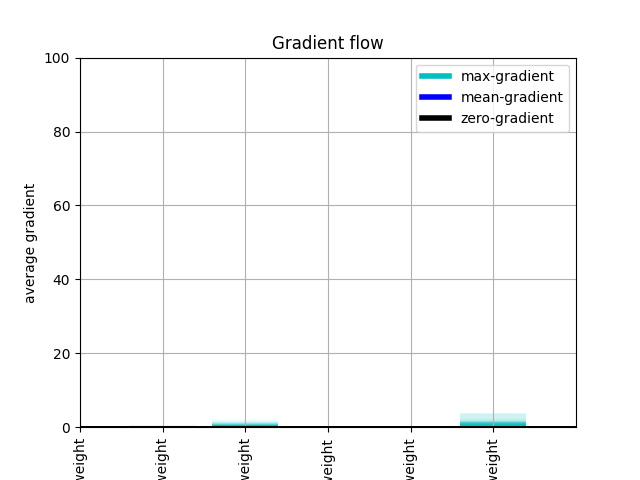
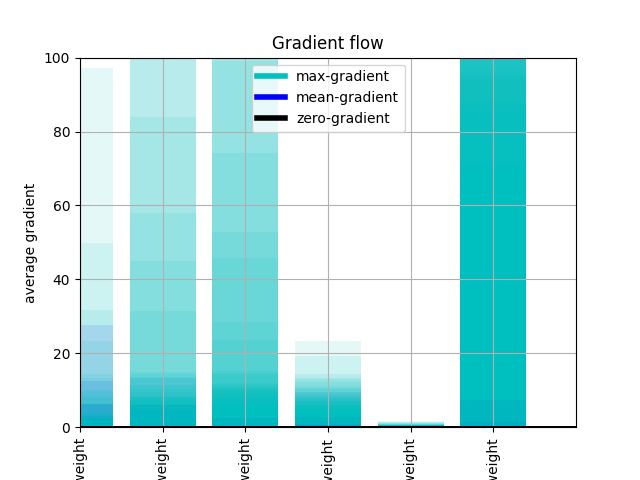
update

Changed region(s): [[0.125, 0.125, 0.875, 0.9062], [0.5938, 0.875, 0.6875, 0.9062]]

diff --git a/src/models/ConvAutoEncoder.py b/src/models/ConvAutoEncoder.py
@@ -8,28 +8,34 @@ class ConvAutoEncoder(nn.Module):
 
         # Encoder layers
         self.enc1 = nn.Conv2d(3, 16, 3, padding=1)
-        self.enc2 = nn.Conv2d(16, 3, 3, padding=1)
+        self.enc2 = nn.Conv2d(16, 32, 3, padding=1)
+        self.enc3 = nn.Conv2d(32, 3, 3, padding=1)
         # self.enc3 = nn.Conv2d(32, 3, 3, padding=1)
 
         # Decoder layers
-        self.dec1 = nn.ConvTranspose2d(3, 16, kernel_size=2, stride=2)
-        # self.dec2 = nn.ConvTranspose2d(32, 16, kernel_size=2, stride=2)
-        self.dec3 = nn.ConvTranspose2d(16, 3, kernel_size=2, stride=2)
+        self.dec1 = nn.ConvTranspose2d(3, 32, kernel_size=2, stride=2)
+        self.dec2 = nn.ConvTranspose2d(32, 16, kernel_size=2, stride=2)
+        self.dec3 = nn.ConvTranspose2d(16, 3, kernel_size=1, stride=1)
 
         self.pool = nn.MaxPool2d(2, 2)
+        self.batch_norm = nn.BatchNorm2d(32)
 
     def forward(self, x):
 
         # Encoding
         x = F.relu(self.enc1(x))
-        x = self.pool(x)
         x = F.relu(self.enc2(x))
+        x = self.pool(x)
+        x = self.batch_norm(x)
+        x = F.relu(self.enc3(x))
         # x = self.pool(x)
         # x = F.relu(self.enc3(x)) # problem lies here. How can i return the encoding with channels = 3
         encoding = self.pool(x)
 
         # Decoding
         x = F.relu(self.dec1(encoding))
+        x = self.batch_norm(x)
+        x = F.relu(self.dec2(x))
         # x = F.relu(self.dec2(x))
         decoding = F.sigmoid(self.dec3(x))
 

diff --git a/train_classifier.py b/train_classifier.py
@@ -1,6 +1,7 @@
 import torch
 import argparse
 
+import torchvision.transforms
 from torch.utils.data import DataLoader
 from src.data.dataset import CustomImageDataset
 from torch.utils.tensorboard import SummaryWriter
@@ -13,13 +14,19 @@ def main(model_name):
     writer = SummaryWriter()
     device = get_device()
 
+    # TODO introduce the following to normalize the image
+    # transform = torchvision.transforms.Compose([
+    #     torchvision.transforms.ToTensor(),
+    #     torchvision.transforms.Normalize(mean=[0.5, 0.5, 0.5], std=[0.5, 0.5, 0.5]),
+    # ])
+
     full_dataset = CustomImageDataset('data/train.csv', 'data/preprocessed_images')
     train_size = int(0.8 * len(full_dataset))
     val_size = len(full_dataset) - train_size
     train_dataset, val_dataset = torch.utils.data.random_split(full_dataset, [train_size, val_size],
                                                                generator=torch.Generator().manual_seed(0))
 
-    num_epochs = 2
+    num_epochs = 200
 
     path_to_models = 'src.models.'
     model = model_loader(path_to_models, model_name, device)

diff --git a/src/models/CNN.py b/src/models/CNN.py
@@ -8,14 +8,14 @@ class CNN(nn.Module):
         super(CNN, self).__init__()
         # Define your model layers here (Currently using model from pytorch documentation)
         # self.conv1 = nn.Conv2d(3, 8, 3, stride=1)
-        self.conv1 = nn.Conv2d(3, 8, 5, stride=1)
-        self.conv2 = nn.Conv2d(8, 16, 5, stride=1)
-        self.conv3 = nn.Conv2d(16, 32, 5, stride=1)
+        self.conv1 = nn.Conv2d(3, 8, 3, stride=1)
+        self.conv2 = nn.Conv2d(8, 16, 3, stride=1)
+        self.conv3 = nn.Conv2d(16, 32, 3, stride=1)
         self.batch_norm = nn.BatchNorm2d(32)
         # Can I use a 1x1 convolution?
         self.pool = nn.MaxPool2d(2, 2)
         # self.fc1 = nn.Linear(2032128, 64)
-        self.fc1 = nn.Linear(25088, 64)
+        self.fc1 = nn.Linear(2064512, 64)
         self.fc2 = nn.Linear(64, 6)
 
 

diff --git a/resize_test_autoencoder.py b/resize_test_autoencoder.py
@@ -1,6 +1,7 @@
 import torch
 from PIL import Image
 from torchvision.transforms import ToPILImage, PILToTensor
+import os
 from src.models.ConvAutoEncoder import ConvAutoEncoder
 
 
@@ -18,6 +19,9 @@ def main():
     image = to_tensor(image).type(torch.float32).to(device)
 
     batch = image.unsqueeze(0) # add batch dimension
+
+    if not os.path.exists('data/testing_encoder'):
+        os.makedirs('data/testing_encoder')
 
     with torch.no_grad():
         encoding, decoding = model(batch)
